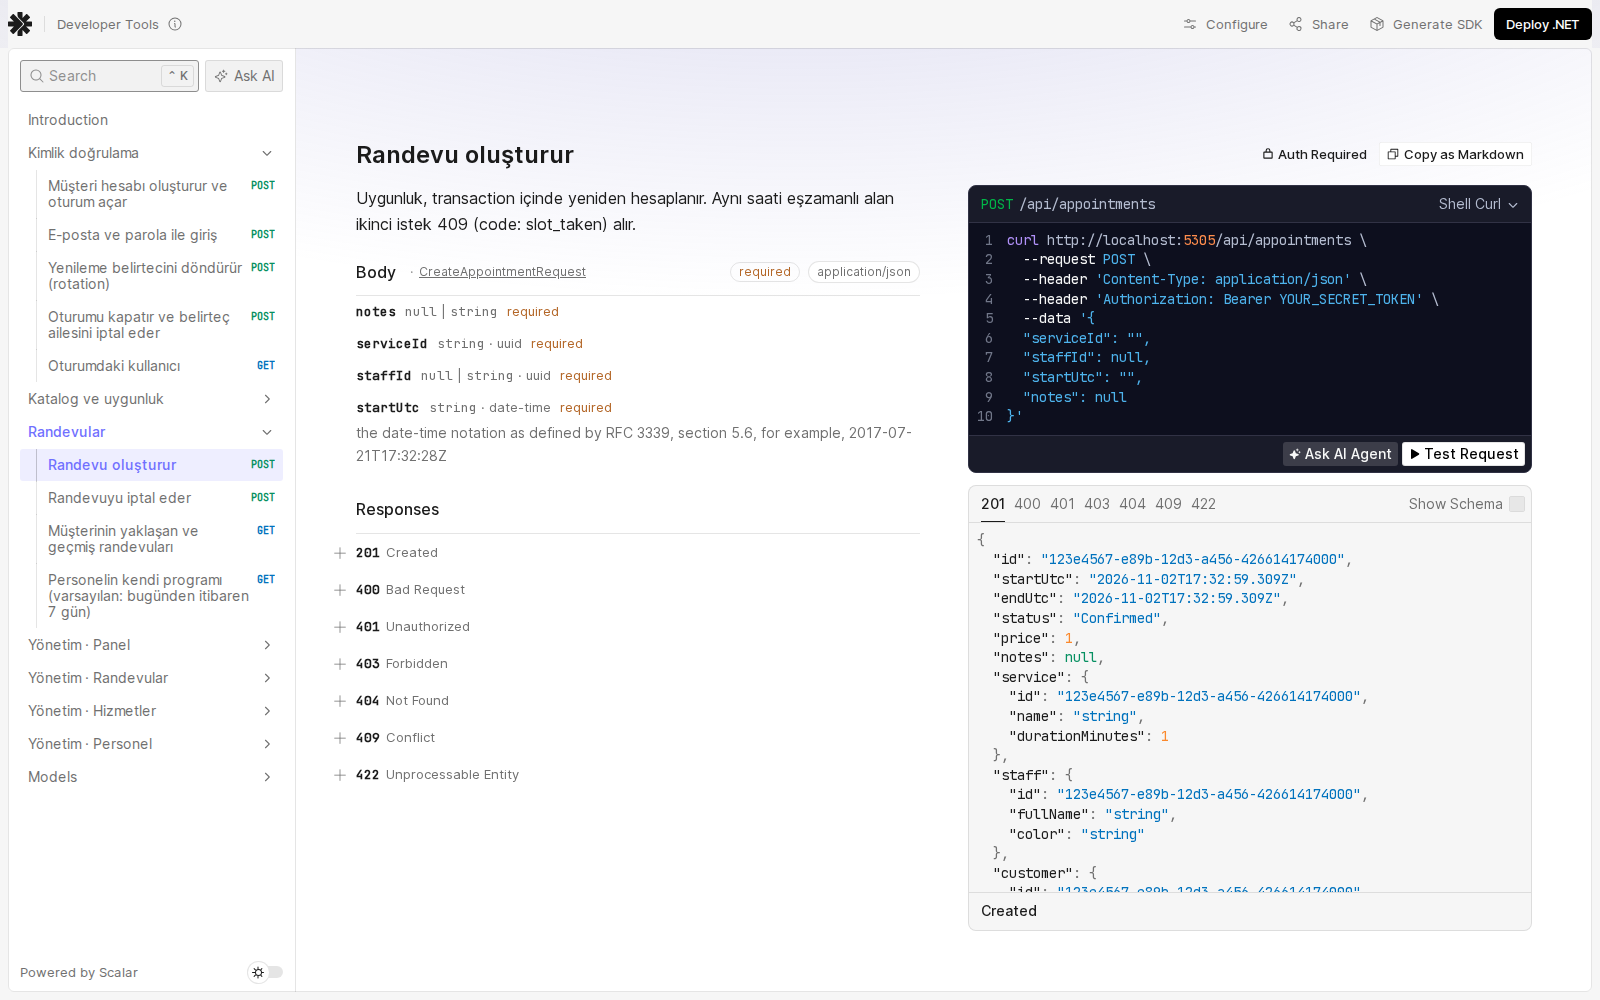
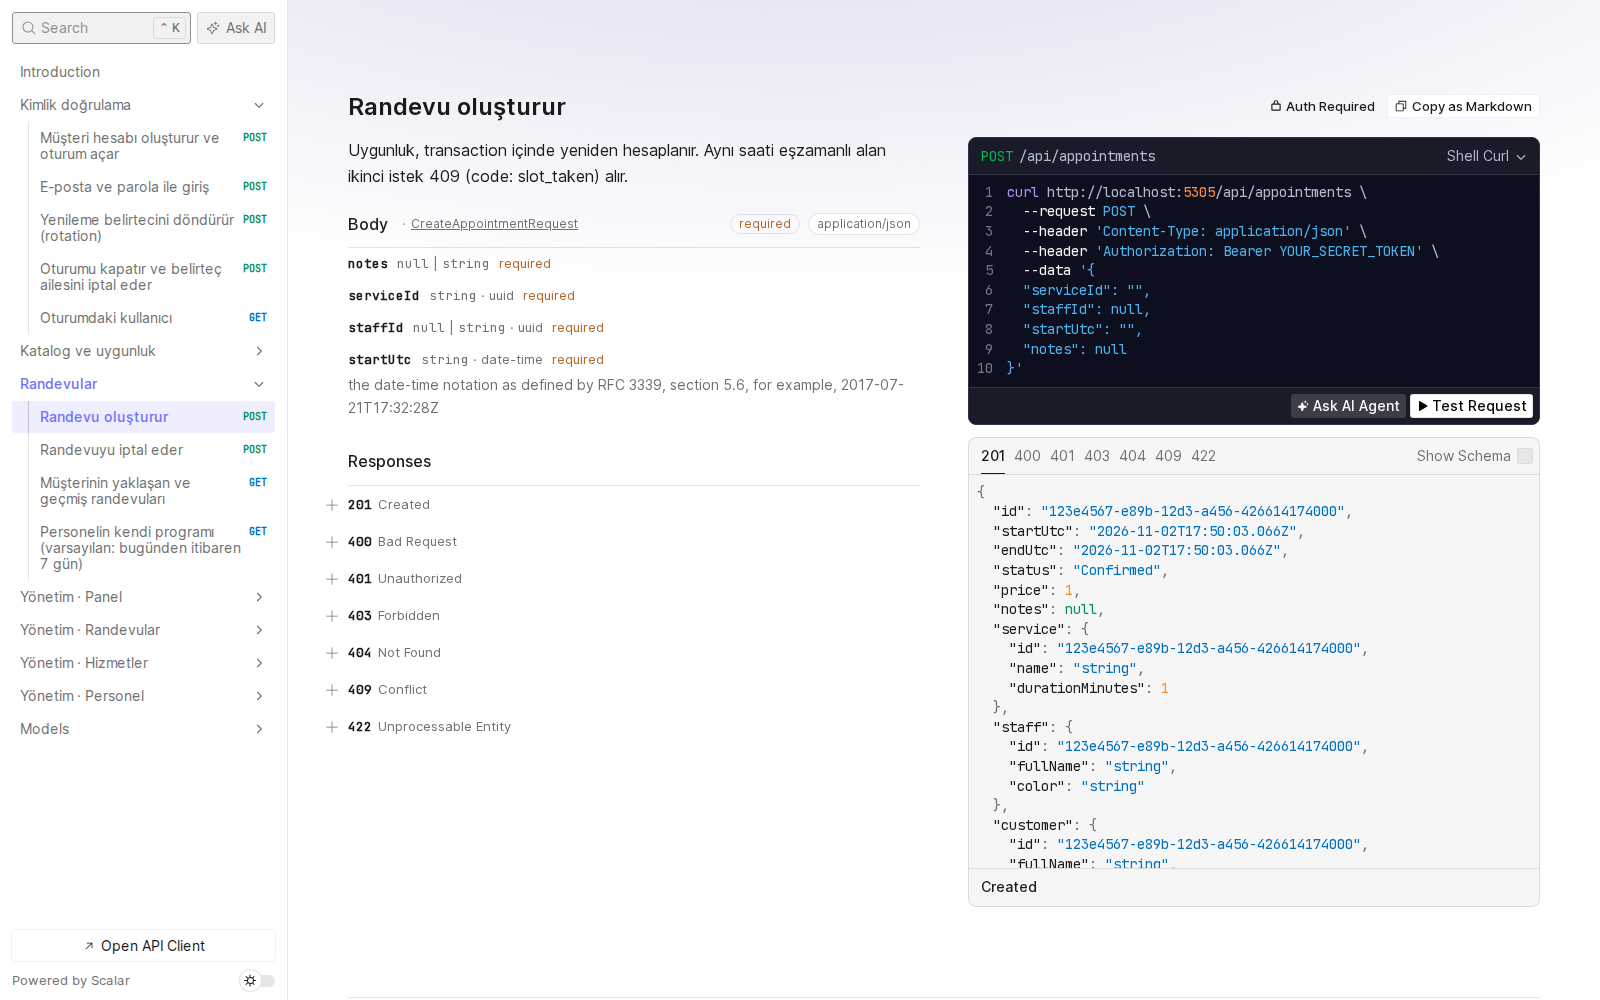
Improve web performance and accessibility details
- Route-based modulepreload for deep links (/login, /admin, ...).
- Replace the ~120 kB latin-ext font files with tiny Turkish subsets
  (Ğ ğ İ Ş ş ₺) generated by scripts/subset-fonts.py; OFL licenses kept.
- Segmented controls and the theme switch use toggle-button semantics.
- Hide Scalar's developer toolbar.

diff --git a/web/vite.config.ts b/web/vite.config.ts
@@ -3,7 +3,9 @@ import { copyFile } from 'node:fs/promises'
 import { resolve } from 'node:path'
 import tailwindcss from '@tailwindcss/vite'
 import react from '@vitejs/plugin-react'
-import { defineConfig, type Plugin } from 'vite'
+import { defineConfig, type Plugin, type Rolldown } from 'vite'
+
+type OutputChunk = Rolldown.OutputChunk
 
 /**
  * GitHub Pages has no SPA rewrites. Serving the same index.html as 404.html lets deep links
@@ -23,9 +25,64 @@ function spaFallback(): Plugin {
   }
 }
 
+/**
+ * Route chunks are lazy, so on a deep link (e.g. /login) the browser would only discover them
+ * after the main bundle has run. This injects a tiny inline script that adds <link rel=modulepreload>
+ * for the current route's chunks, letting them download in parallel with the main bundle.
+ */
+function routePreload(routes: Record<string, string[]>): Plugin {
+  let base = '/'
+  return {
+    name: 'route-modulepreload',
+    apply: 'build',
+    configResolved(config) {
+      base = config.base
+    },
+    transformIndexHtml: {
+      order: 'post',
+      handler(html, ctx) {
+        const bundle = ctx.bundle
+        if (!bundle) return html
+        const chunks = Object.values(bundle).filter((c): c is OutputChunk => c.type === 'chunk')
+        const entry = chunks.find((c) => c.isEntry)
+        const collect = (chunk: OutputChunk, files: Set<string>) => {
+          if (chunk === entry || files.has(chunk.fileName)) return
+          files.add(chunk.fileName)
+          for (const name of chunk.imports) {
+            const next = chunks.find((c) => c.fileName === name)
+            if (next) collect(next, files)
+          }
+        }
+        const map: Record<string, string[]> = {}
+        for (const [segment, modules] of Object.entries(routes)) {
+          const files = new Set<string>()
+          for (const module of modules) {
+            const chunk = chunks.find((c) => c.facadeModuleId?.endsWith(module))
+            if (chunk) collect(chunk, files)
+          }
+          map[segment] = [...files]
+        }
+        const script = `(function(){var m=${JSON.stringify(map)},b=${JSON.stringify(base)},p=location.pathname.slice(b.length).split('/')[0];(m[p]||[]).forEach(function(f){var l=document.createElement('link');l.rel='modulepreload';l.href=b+f;document.head.appendChild(l)})})()`
+        return html.replace('</head>', `  <script>${script}</script>\n  </head>`)
+      },
+    },
+  }
+}
+
 export default defineConfig({
   base: '/randevu-sistemi/',
-  plugins: [react(), tailwindcss(), spaFallback()],
+  plugins: [
+    react(),
+    tailwindcss(),
+    routePreload({
+      login: ['src/features/auth/LoginPage.tsx'],
+      register: ['src/features/auth/RegisterPage.tsx'],
+      appointments: ['src/features/appointments/MyAppointmentsPage.tsx'],
+      staff: ['src/features/staff/StaffSchedulePage.tsx'],
+      admin: ['src/features/admin/AdminLayout.tsx', 'src/features/admin/DashboardPage.tsx'],
+    }),
+    spaFallback(),
+  ],
   server: { port: 5304, strictPort: true },
   preview: { port: 5304, strictPort: true },
   build: { target: 'es2023', sourcemap: false },

diff --git a/web/src/components/ui/Toast.tsx b/web/src/components/ui/Toast.tsx
@@ -1,5 +1,6 @@
 import { CheckCircle2, X } from 'lucide-react'
 import { createContext, use, useCallback, useMemo, useRef, useState, type ReactNode } from 'react'
+import { useI18n } from '../../lib/i18n/context'
 
 interface ToastValue {
   notify: (message: string) => void
@@ -8,10 +9,11 @@ interface ToastValue {
 const ToastContext = createContext<ToastValue | null>(null)
 
 export function ToastProvider({ children }: { children: ReactNode }) {
+  const { t } = useI18n()
   const [items, setItems] = useState<{ id: number; message: string }[]>([])
   const nextId = useRef(1)
 
-  const dismiss = useCallback((id: number) => setItems((current) => current.filter((t) => t.id !== id)), [])
+  const dismiss = useCallback((id: number) => setItems((current) => current.filter((item) => item.id !== id)), [])
   const notify = useCallback(
     (message: string) => {
       const id = nextId.current++
@@ -30,7 +32,7 @@ export function ToastProvider({ children }: { children: ReactNode }) {
           <div key={item.id} className="animate-rise pointer-events-auto flex max-w-md items-center gap-3 rounded-xl bg-accent px-4 py-3 text-sm text-accent-fg shadow-lg">
             <CheckCircle2 className="size-4.5 shrink-0" aria-hidden />
             <span className="flex-1">{item.message}</span>
-            <button type="button" onClick={() => dismiss(item.id)} className="rounded p-0.5 opacity-70 hover:opacity-100" aria-label="×">
+            <button type="button" onClick={() => dismiss(item.id)} className="rounded p-0.5 opacity-70 hover:opacity-100" aria-label={t('common.close')}>
               <X className="size-4" aria-hidden />
             </button>
           </div>

diff --git a/web/src/fonts.css b/web/src/fonts.css
@@ -1,0 +1,40 @@
+/*
+ * Inter and Fraunces (SIL Open Font License 1.1), variable weight axis.
+ * Latin comes from Fontsource; the six extra glyphs Turkish needs (Ğ ğ İ Ş ş ₺) come from tiny
+ * subsets built by scripts/subset-fonts.py, instead of the ~120 kB latin-ext files.
+ */
+@font-face {
+  font-family: 'Inter Variable';
+  font-style: normal;
+  font-display: swap;
+  font-weight: 100 900;
+  src: url('@fontsource-variable/inter/files/inter-latin-wght-normal.woff2') format('woff2-variations');
+  unicode-range: U+0000-00FF, U+0131, U+0152-0153, U+02BB-02BC, U+02C6, U+02DA, U+02DC, U+0304, U+0308, U+0329, U+2000-206F, U+20AC, U+2122, U+2191, U+2193, U+2212, U+2215, U+FEFF, U+FFFD;
+}
+
+@font-face {
+  font-family: 'Inter Variable';
+  font-style: normal;
+  font-display: swap;
+  font-weight: 100 900;
+  src: url('./assets/fonts/inter-turkish-wght.woff2') format('woff2-variations');
+  unicode-range: U+011E-011F, U+0130, U+015E-015F, U+20BA;
+}
+
+@font-face {
+  font-family: 'Fraunces Variable';
+  font-style: normal;
+  font-display: swap;
+  font-weight: 100 900;
+  src: url('@fontsource-variable/fraunces/files/fraunces-latin-wght-normal.woff2') format('woff2-variations');
+  unicode-range: U+0000-00FF, U+0131, U+0152-0153, U+02BB-02BC, U+02C6, U+02DA, U+02DC, U+0304, U+0308, U+0329, U+2000-206F, U+20AC, U+2122, U+2191, U+2193, U+2212, U+2215, U+FEFF, U+FFFD;
+}
+
+@font-face {
+  font-family: 'Fraunces Variable';
+  font-style: normal;
+  font-display: swap;
+  font-weight: 100 900;
+  src: url('./assets/fonts/fraunces-turkish-wght.woff2') format('woff2-variations');
+  unicode-range: U+011E-011F, U+0130, U+015E-015F, U+20BA;
+}

diff --git a/web/src/components/ui/Segmented.tsx b/web/src/components/ui/Segmented.tsx
@@ -8,18 +8,17 @@ interface SegmentedProps<T extends string | number> {
   className?: string
 }
 
-/** A compact radio group styled as a segmented control. */
+/** A group of toggle buttons styled as a segmented control (exactly one is pressed). */
 export function Segmented<T extends string | number>({ label, value, options, onChange, className }: SegmentedProps<T>) {
   return (
-    <div role="radiogroup" aria-label={label} className={cn('inline-flex rounded-xl bg-surface-2 p-1', className)}>
+    <div role="group" aria-label={label} className={cn('inline-flex rounded-xl bg-surface-2 p-1', className)}>
       {options.map((option) => {
         const selected = option.value === value
         return (
           <button
             key={String(option.value)}
             type="button"
-            role="radio"
-            aria-checked={selected}
+            aria-pressed={selected}
             onClick={() => onChange(option.value)}
             className={cn(
               'h-8 rounded-lg px-3 text-sm font-medium transition-colors',

diff --git a/web/src/components/layout/Preferences.tsx b/web/src/components/layout/Preferences.tsx
@@ -12,13 +12,12 @@ export function ThemeSwitch({ className }: { className?: string }) {
     { value: 'dark', label: t('theme.dark'), Icon: Moon },
   ]
   return (
-    <div role="radiogroup" aria-label={t('theme.label')} className={cn('inline-flex rounded-xl bg-surface-2 p-0.5', className)}>
+    <div role="group" aria-label={t('theme.label')} className={cn('inline-flex rounded-xl bg-surface-2 p-0.5', className)}>
       {options.map(({ value, label, Icon }) => (
         <button
           key={value}
           type="button"
-          role="radio"
-          aria-checked={preference === value}
+          aria-pressed={preference === value}
           aria-label={label}
           title={label}
           onClick={() => setPreference(value)}

diff --git a/web/src/main.tsx b/web/src/main.tsx
@@ -1,5 +1,4 @@
-import '@fontsource-variable/inter/wght.css'
-import '@fontsource-variable/fraunces/wght.css'
+import './fonts.css'
 import './index.css'
 import { QueryClientProvider } from '@tanstack/react-query'
 import { StrictMode } from 'react'

diff --git a/web/scripts/subset-fonts.py b/web/scripts/subset-fonts.py
@@ -1,0 +1,34 @@
+"""Builds the tiny "Turkish" font subsets used next to the stock Latin subsets.
+
+Fontsource splits Inter and Fraunces into unicode-range subsets. Turkish text needs only six
+glyphs from the large latin-ext subset (Ğ ğ İ Ş ş, plus the lira sign), so instead of downloading
+~120 kB of latin-ext we ship these subsets of a few kB each.
+
+    python3 -m pip install fonttools brotli   # once
+    python3 scripts/subset-fonts.py
+"""
+
+from pathlib import Path
+
+from fontTools import subset
+
+ROOT = Path(__file__).resolve().parent.parent
+SOURCES = {
+    "inter-turkish-wght.woff2": "node_modules/@fontsource-variable/inter/files/inter-latin-ext-wght-normal.woff2",
+    "fraunces-turkish-wght.woff2": "node_modules/@fontsource-variable/fraunces/files/fraunces-latin-ext-wght-normal.woff2",
+}
+UNICODES = [0x011E, 0x011F, 0x0130, 0x015E, 0x015F, 0x20BA]
+
+for target, source in SOURCES.items():
+    options = subset.Options()
+    options.flavor = "woff2"
+    options.layout_features = ["*"]
+    options.name_IDs = ["*"]
+    options.notdef_outline = True
+    font = subset.load_font(str(ROOT / source), options)
+    subsetter = subset.Subsetter(options)
+    subsetter.populate(unicodes=UNICODES)
+    subsetter.subset(font)
+    out = ROOT / "src" / "assets" / "fonts" / target
+    subset.save_font(font, str(out), options)
+    print(f"{out.relative_to(ROOT)}: {out.stat().st_size} bytes")

diff --git a/api/src/Randevu.Api/Program.cs b/api/src/Randevu.Api/Program.cs
@@ -56,7 +56,8 @@ app.MapScalarApiReference("/scalar", options => options
     .WithTitle("Randevu API")
     .WithTheme(ScalarTheme.Kepler)
     .AddPreferredSecuritySchemes(OpenApiSetup.BearerScheme)
-    .WithDefaultHttpClient(ScalarTarget.Shell, ScalarClient.Curl))
+    .WithDefaultHttpClient(ScalarTarget.Shell, ScalarClient.Curl)
+    .HideDeveloperTools())
     .AllowAnonymous();
 app.MapGet("/", () => Results.Redirect("/scalar")).ExcludeFromDescription();
 
